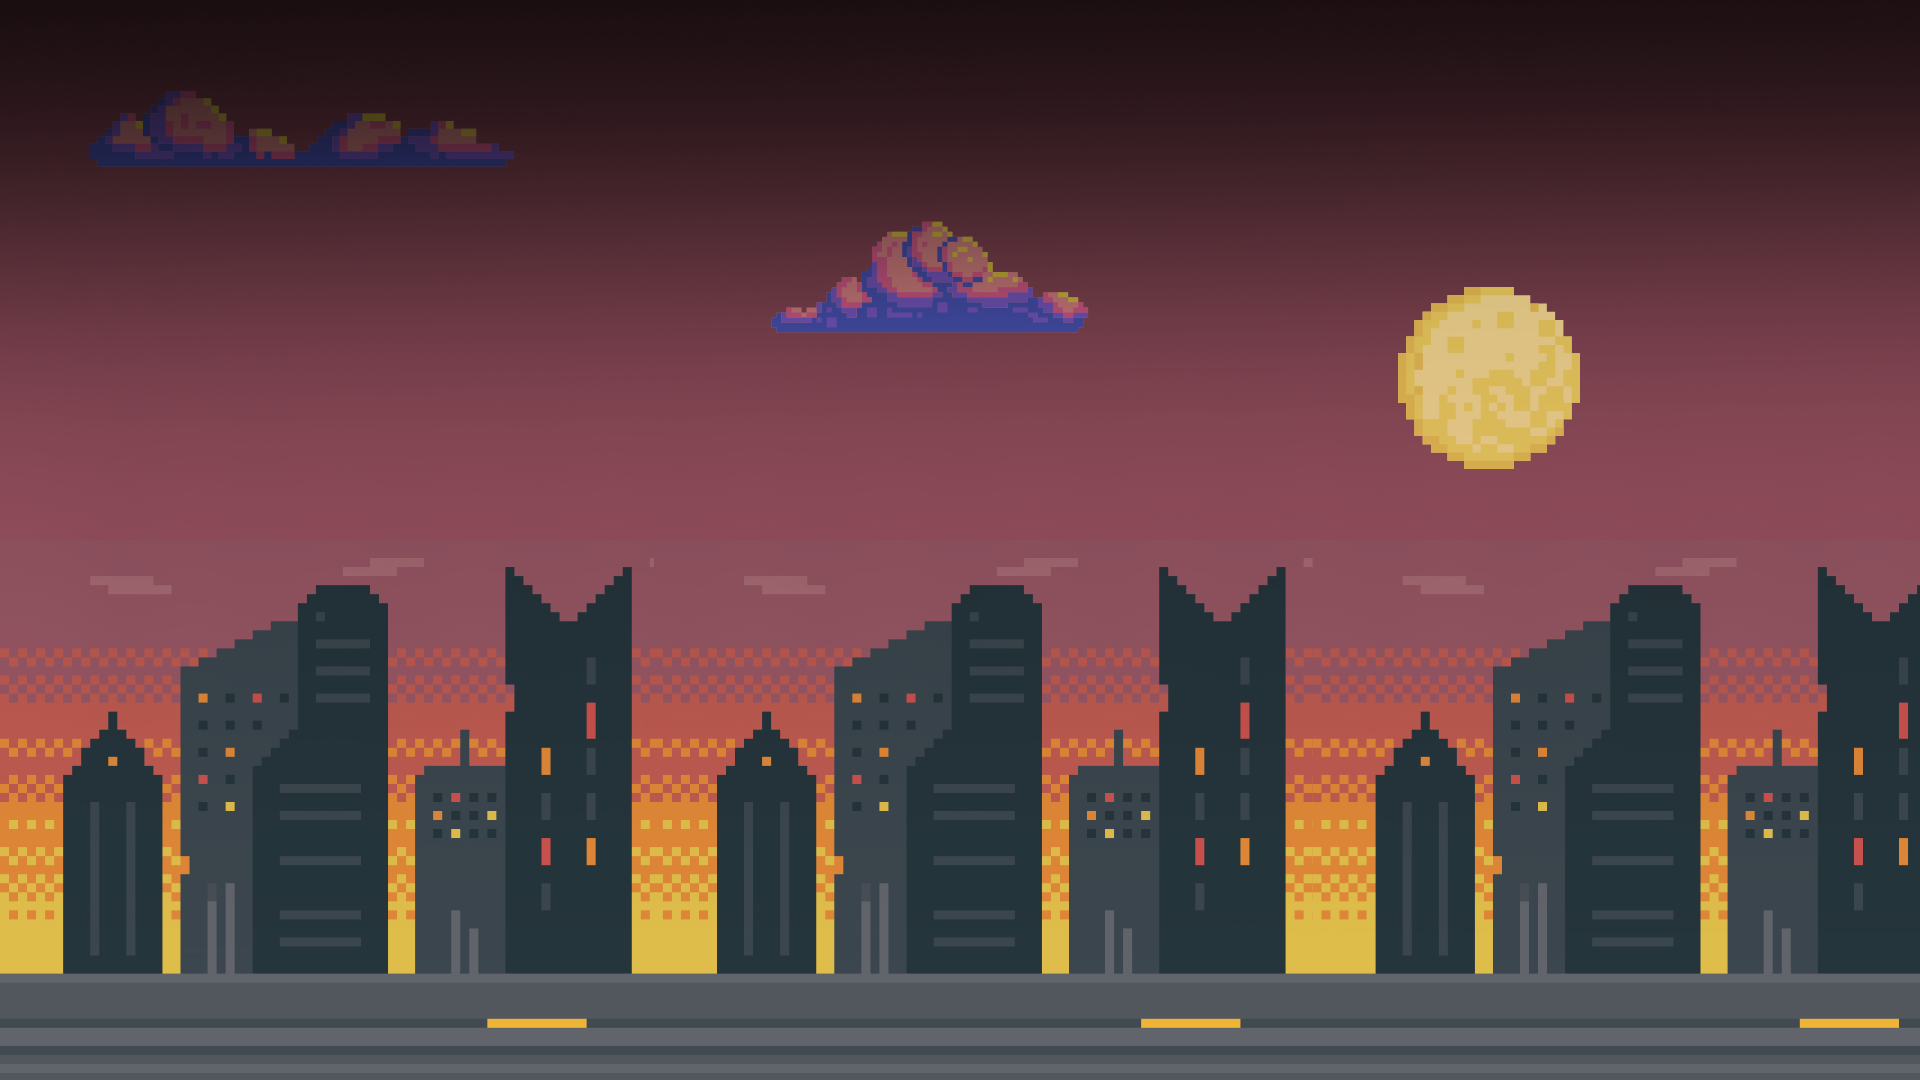
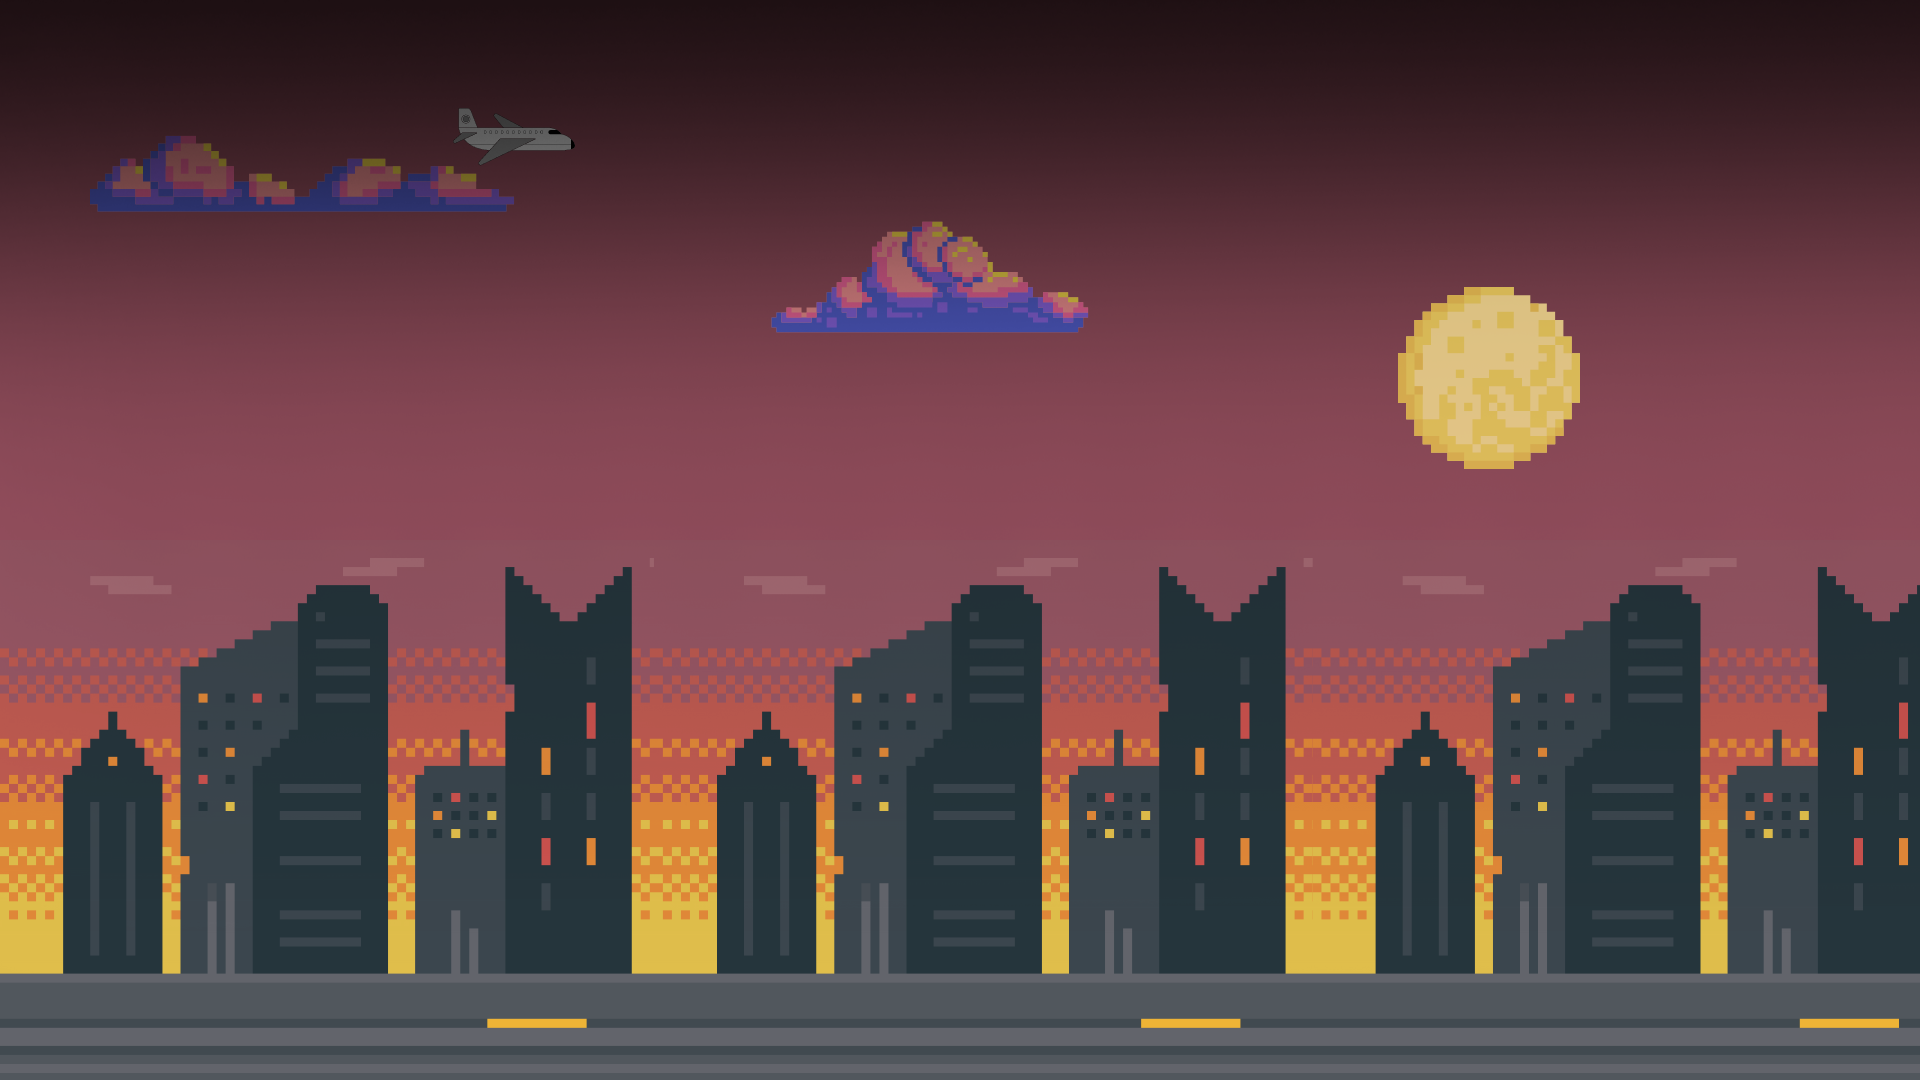
added animations

Changed region(s): [[0.0312, 0.0917, 0.3125, 0.2139]]

diff --git a/frontend/src/App.css b/frontend/src/App.css
@@ -4,9 +4,9 @@
   margin: 0;
   padding: 0;
 } */
-/* body{
-  display: flex;
-} */
+body{
+  overflow-x: hidden;
+}
 @font-face {
   font-family: pixeloidsans;
   src: url("./fonts/PixeloidSans.ttf");
@@ -19,7 +19,7 @@
 .containz {
   display: flex;
   flex-wrap: nowrap;
-  overflow-x: scroll;
+  overflow-x: hidden;
   position: relative;
   width: 100vw;
   /* height: 20rem; */
@@ -34,10 +34,10 @@
 
 @keyframes primary {
   from {
-    left: 0%;
+    right: 100%;
   }
   to {
-    left: -100%;
+    right: 0%;
   }
 }
 .overlay{
@@ -46,51 +46,102 @@
   left: 0;
   width: 100%;
   height: 100%;
-  background-color: rgba(0, 0, 0, 0.35);
+  background-color: rgba(0, 0, 0, 0.45);
   z-index: 1;
 }
 
-/*ABOUT PAGE CSS*/
-.about-con{
-font-family: pixeloidsans;
-}
-.heading {
+
+.karma{
+  position: absolute;
+  white-space: nowrap;
+  overflow: hidden;
+  font-size: 4.5em;
+  top: 38%;
+  left: 30%;
+  /* transform: translate(-50%, -50%); */
   font-family: karmatic;
-  -webkit-text-stroke: 2.25px rgb(215, 188, 126); 
-   color:rgba(255, 255, 255, 0);
+  z-index: 2;
+  color: rgb(215, 188, 126);
+  /* animation: breathe 4s linear;  */
+  text-shadow: 6px 6px #000;
+  animation: 
+  typing 6s steps(70, end),
+  blink-caret .71s step-end infinite;
+  letter-spacing: 8px;
+}
+@keyframes typing {
+  from { width: 0 }
+  to { width: 100% }
+}
+
+/* The typewriter cursor effect */
+@keyframes blink-caret {
+  from, to { border-color: transparent }
+  50% { border-color: orange; }
+}
+
+.karma2{
+  position: absolute;
+  font-size: 1.8em;
+  white-space: nowrap;
+  overflow: hidden;
+  top: 53%;
+  left: 39%;
+  /* transform: translate(-50%, -50%); */
+  font-family: karmatic;
+  z-index: 2;
+  color: rgb(215, 188, 126);
+  /* animation: breathe 4s linear;  */
+  text-shadow: 6px 6px #000;
+  animation: 
+  typing 18s steps(90, end),
+  blink-caret .71s step-end infinite;
+  letter-spacing: 5px;
+}
+@keyframes breathe {
+  0% { transform: scale(0.5)  }
+  /* 70% { transform: scale(0.8); } */
+  100% { transform: scale(1); }
+}
+.mascot {
+  position: absolute;
+  bottom: -10px;
+  right: 0px;
+  margin-right: -5%;
+  rotate: -3deg;
+  animation: bounce 6s;
+  z-index: 1;
+}
+
+@keyframes bounce {
+  0%,
+  100% {
+    transform: translateX(0);
+  }
+  75%{
+    transform: rotate(-25deg);
+  }
+  50% {
+    transform: translateX(40px);
+  }
 }
 @media (max-width:767px){
-  .heading {
-    -webkit-text-stroke: 1px rgb(215, 188, 126);
+  .karma {
+    font-size: 2em;
+    top: 38%;
+    left: 20%;
   }
 }
-
-.dates {
-  -webkit-text-stroke: 1.5px white; 
-  font-weight:bolder;
-}
-.content-box {
-  background-color: rgba(217, 217, 217, 0.8);
-  border: 4px solid black;
-  width:85%;
-  height:60%;
-  display: flex;
-  align-items: center;
-  justify-content: center;
-}
-@media (min-width: 768px) {
-  .content-box {
-    width: 50%;
+@media (max-width:767px){
+  .karma2 {
+    font-size: 1em;
+    top: 45%;
+    left: 28%;
   }
 }
-.small-text {
-  font-size: 1.1em; 
-}
-@media (max-width: 767px) {
-  .small-text {
-    font-size: 0.7em;
+@media (max-width:767px){
+  .mascot {
+    scale: 0.75;
+    margin-right: -20%;
   }
 }
-
-
-

diff --git a/frontend/src/Components/Landing.jsx b/frontend/src/Components/Landing.jsx
@@ -4,9 +4,15 @@ import img2 from "../assets/cityscape-1.png"
 import img3 from "../assets/cityscape-1.png"
 import '../App.css'
 import About from './About'
+import mascot from "../assets/mascot.png"
+import Typewriter from 'typewriter-effect/dist/core';
 
-
+// new Typewriter('#typewriter', {
+//   strings: ['Hackman', 'v7'],
+//   autoStart: true,
+// });
 function Landing() {
+
   const handleScroll = (event) => {
     const container = event.target;
     const scrollAmount = event.deltaY;
@@ -16,9 +22,14 @@ function Landing() {
       behavior: 'smooth'
     });
   };
+ 
+ 
   return (
     <div>
     <div className="containz">
+      <h1  className='karma' >HACKMAN v7</h1>
+      <h1 className='karma2 sh'>June 24th-25th</h1>
+
       <section onWheel={handleScroll} className='elem'>
         <div className="overlay"></div>
         <img src={img} alt="" srcset="" style={{height:"100vh",width:"100vw",objectFit:"cover"}}></img> 
@@ -27,11 +38,14 @@ function Landing() {
       <div className="overlay"></div>
       <img src={img2} alt="" srcset=""  style={{height:"100vh",width:"100vw",objectFit:"cover"}}/> 
       </section>
-      {/* <section onWheel={handleScroll} className='elem'>
-      <img src={img3} alt="" srcset="" style={{height:"100vh",width:"100vw",objectFit:"cover"}}/>
-      <h1 style={{height:"100vh",width:"100vw",objectFit:"cover"}}>Page Three</h1>
-      </section> */}
+     <div className="mascot ">
+        <picture  alt="mascot" >
+           <img height={250} width={240} src={mascot} loading="lazy" alt="mascot"/>
+
+        </picture>
       </div>
+      </div>
+      
 
     </div>
   )

diff --git a/frontend/src/Css/About.css b/frontend/src/Css/About.css
@@ -1,0 +1,49 @@
+@font-face {
+    font-family: pixeloidsans;
+    src: url("../fonts/PixeloidSans.ttf");
+  }
+  @font-face {
+    font-family: karmatic ;
+    src: url("../fonts/ka1.ttf");
+  }
+.about-con{
+    font-family: pixeloidsans;
+    overflow-x: hidden;
+    }
+    .heading {
+      font-family: karmatic;
+      /* -webkit-text-stroke: 1px rgb(222, 188, 106);  */
+       color:rgb(222, 188, 126);
+    }
+    @media (max-width:767px){
+      .heading {
+        color: rgb(215, 188, 126);
+      }
+    }
+    
+    .dates {
+      color: white; 
+      font-weight:bolder;
+    }
+    .content-box {
+      background-color: rgba(217, 217, 217, 0.8);
+      border: 4px solid black;
+      width:85%;
+      height:60%;
+      display: flex;
+      align-items: center;
+      justify-content: center;
+    }
+    @media (min-width: 768px) {
+      .content-box {
+        width: 50%;
+      }
+    }
+    .small-text {
+      font-size: 1.1em; 
+    }
+    @media (max-width: 767px) {
+      .small-text {
+        font-size: 0.7em;
+      }
+    }

diff --git a/frontend/src/Components/About.jsx b/frontend/src/Components/About.jsx
@@ -2,6 +2,7 @@ import React from "react";
 import "../App.css";
 import Board from "../assets/board-about.png";
 import CityScape from "../assets/cityscape-3.png";
+import "../Css/About.css"
 
 function About() {
   return (
@@ -30,7 +31,7 @@ function About() {
           </h1>
           <h4
             className="dates pb-4"
-            style={{ color: "black", letterSpacing: "1px" }}
+            // style={{ color: "black", letterSpacing: "1px" }}
           >
             Date : June 24th - 25th
           </h4>
